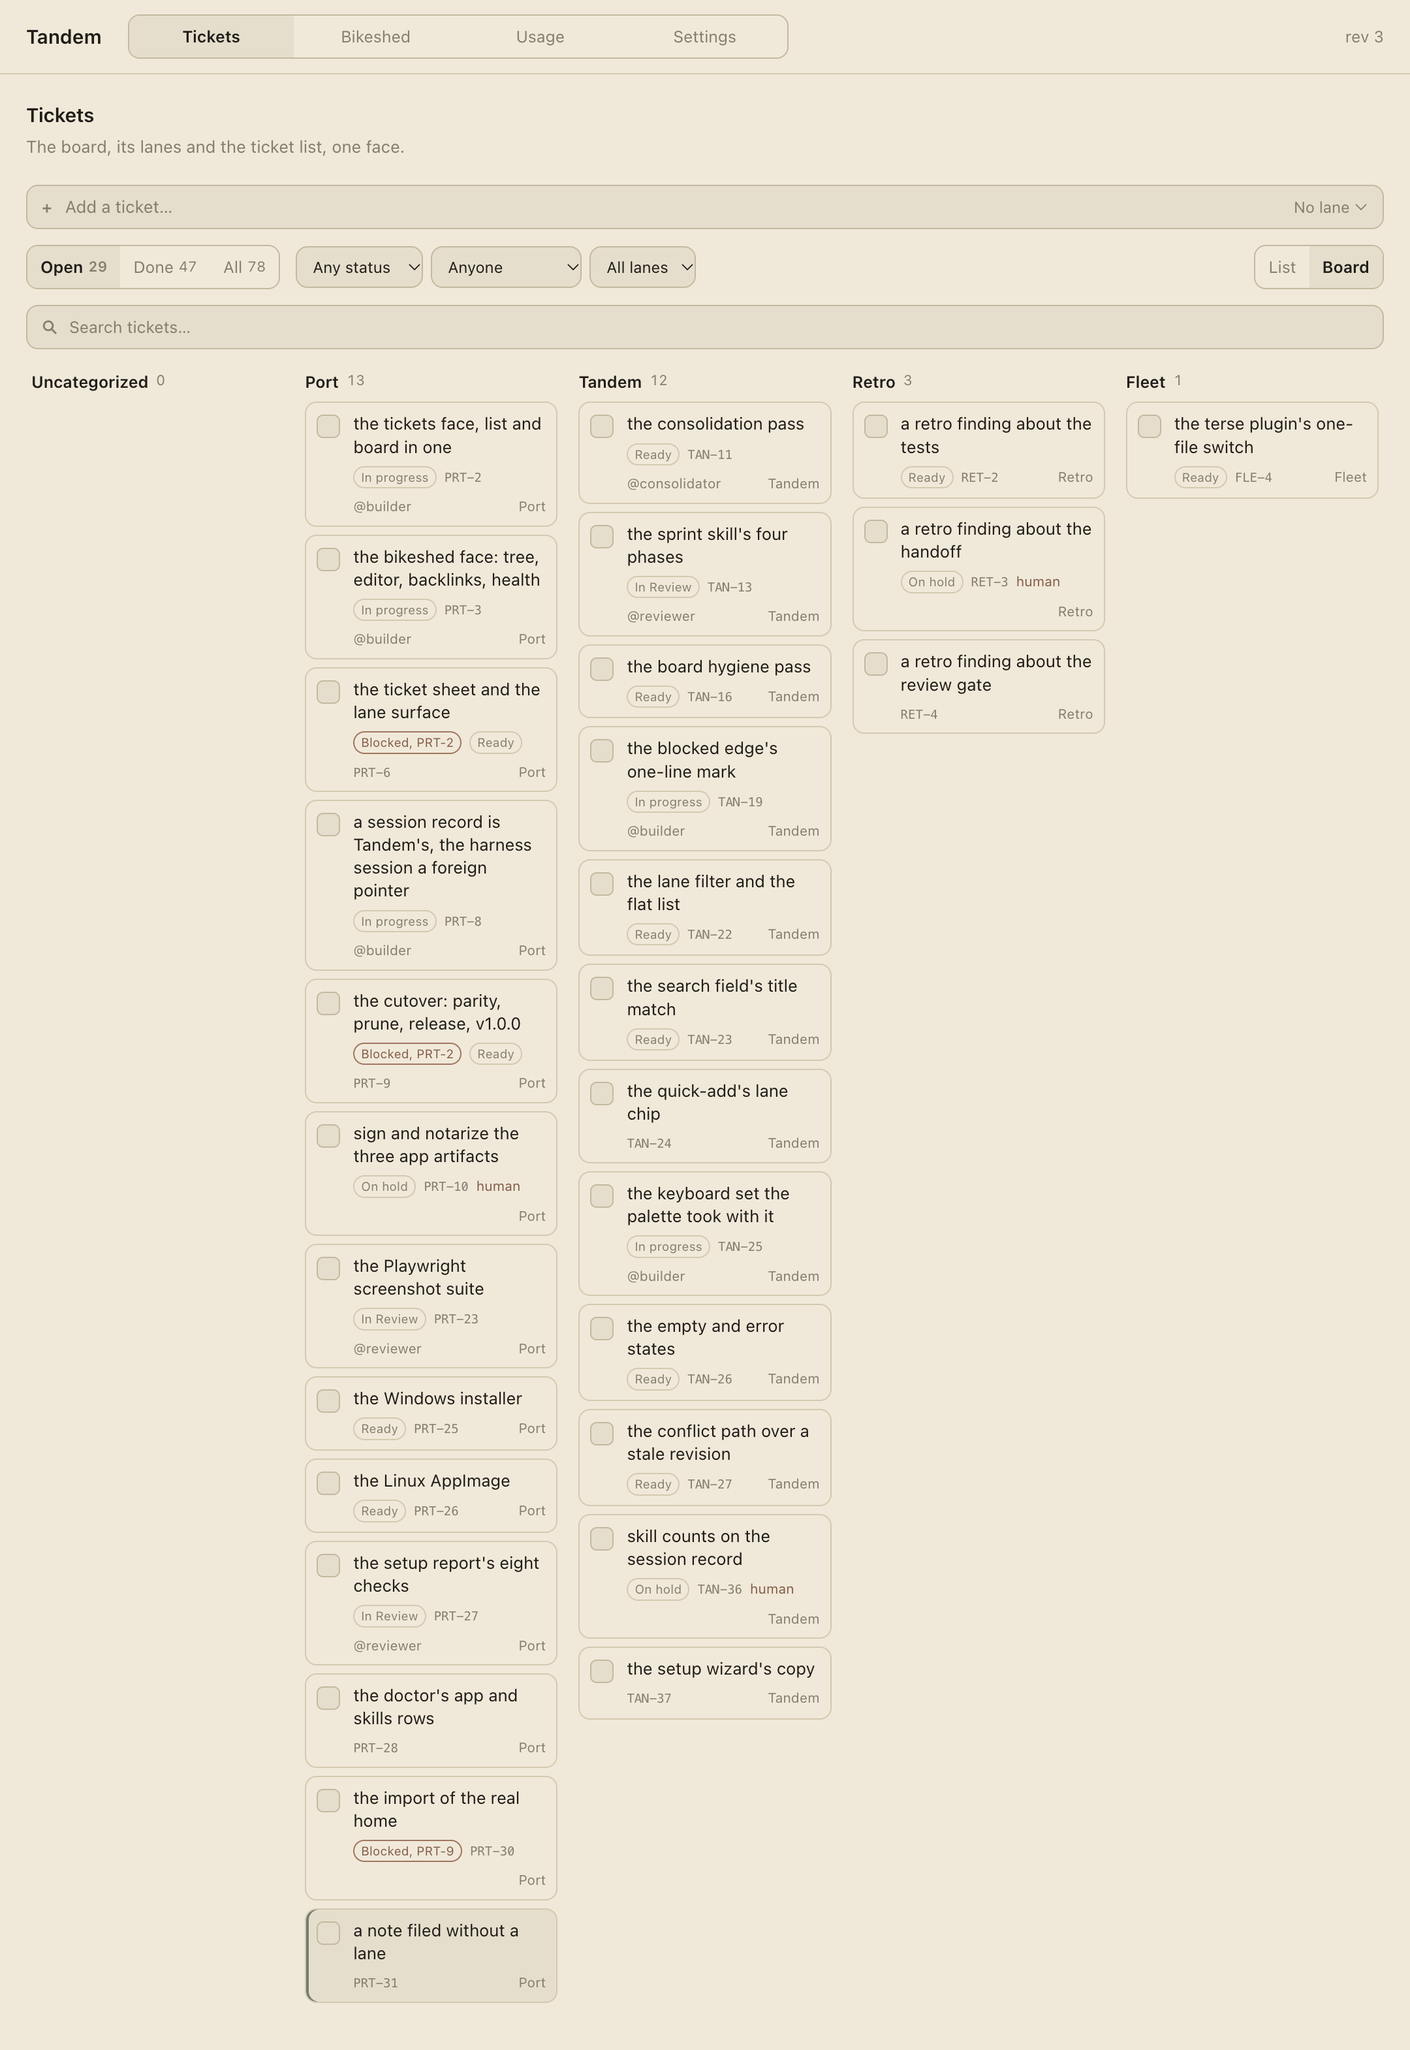
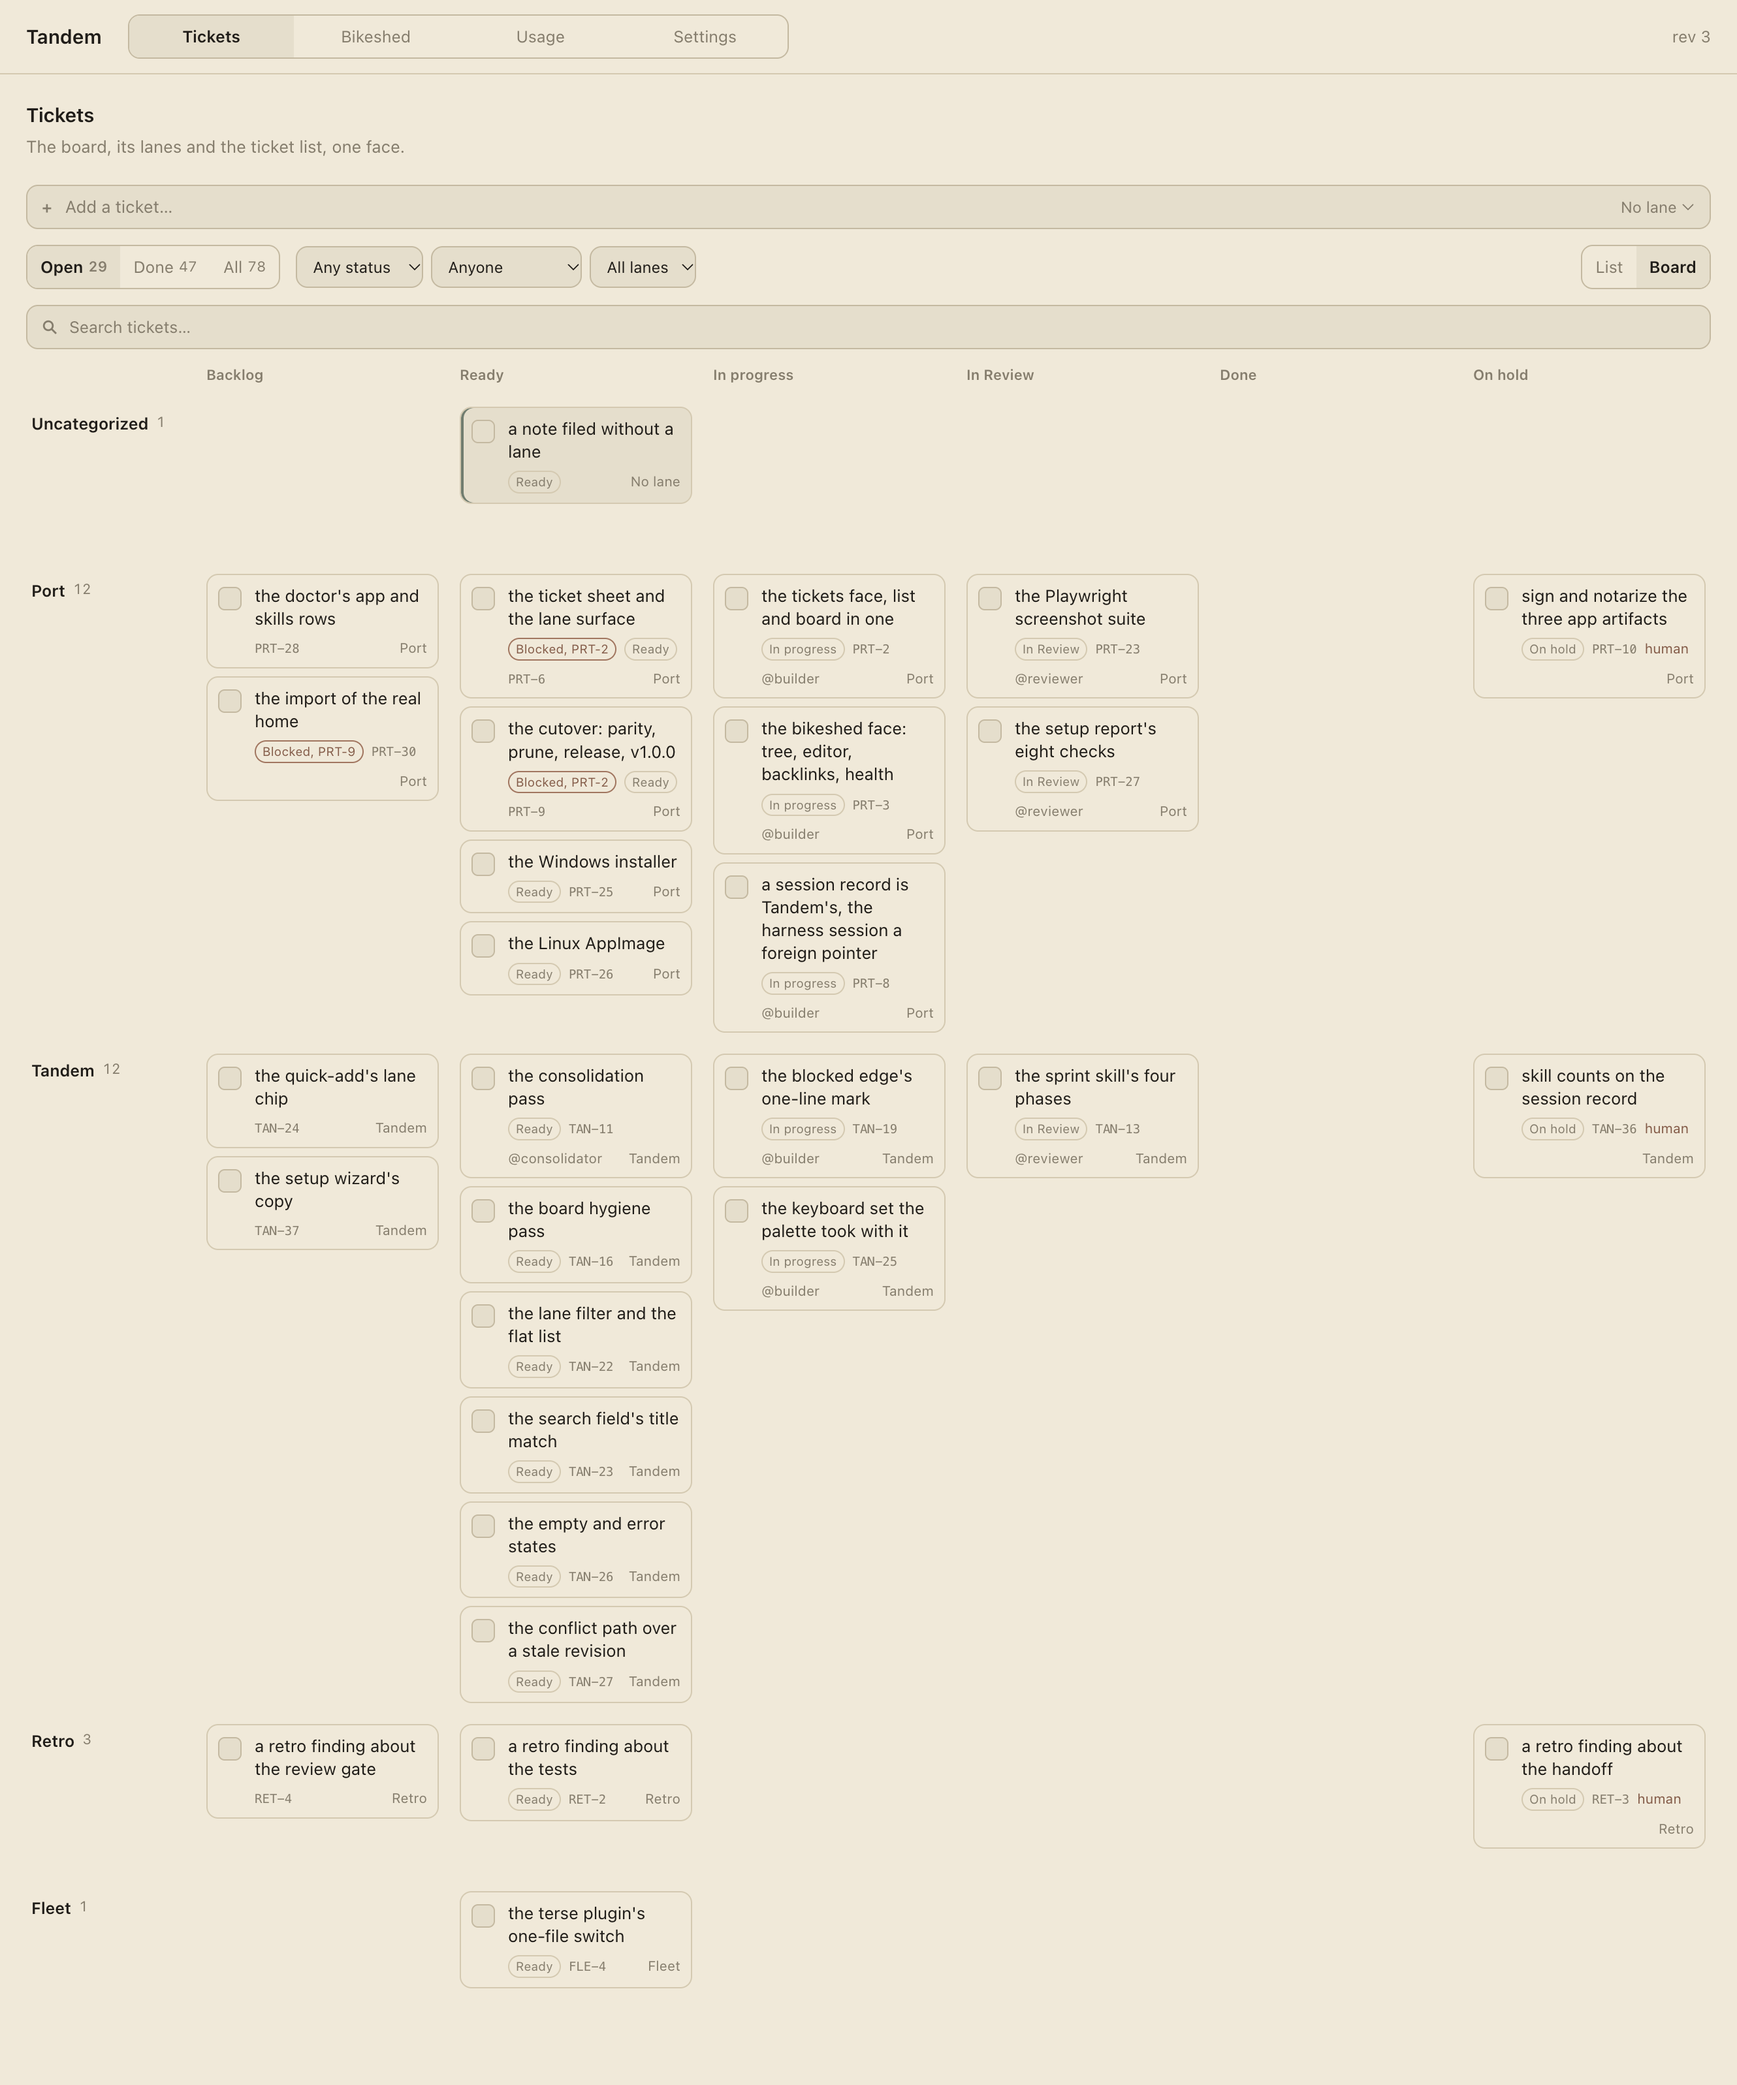
TAND-5: the Tickets pictures show the lanes-as-rows board they describe
TAN-246 flipped the board to lanes as rows and the six statuses as columns,
and TAND-4 added the sheet's focus-ring check to the same spec. The committed
`tickets-board.png` and `tickets-keyboard.png` were the column-per-lane layout,
and their rows in `docs/screenshots/README.md` said so.

- regenerate both pictures with the catalogue's Board command
- the board needs 1288 px for its lane title and six status columns, so the
  capture width goes from 1080 to 1330; at 1080 the On hold column sat past
  the right edge and the picture held five columns of six
- assert the last status column is in the viewport of the frame just shot, so a
  clipped board is a red run and not a half picture
- reword the two rows and the template's board-width sentence for the new grid
- pin the committed catalogue to what the template and the manifest render, so
  a reworded row cannot go stale without a red test

The list picture is unchanged: the list layout did not move, and the run wrote
the same pixels.

diff --git a/app/tests/shots/tickets.shots.ts b/app/tests/shots/tickets.shots.ts
@@ -122,7 +122,13 @@ test('the tickets face shows one board two ways: the list and the board over one
 
   // The pictures are the Open board, the face's default.
   await window.getByRole('tab', { name: /^Open/ }).click()
-  await capture(app, window, scene('tickets-board'), 1080)
+  // The grid needs 1288 px for its lane title and six status columns, and the
+  // shell spends a gutter either side of it: a 1080 window scrolls On hold off
+  // the right edge, and the picture would be half a board.
+  await capture(app, window, scene('tickets-board'), 1330)
+  // The frame just shot holds the whole board: a column past the edge is a
+  // column the photograph never has.
+  await expect(window.locator('.board__status').last()).toBeInViewport()
 
   await window.getByRole('tab', { name: 'List' }).click()
   await expect(window.locator('.list')).toBeVisible()
@@ -233,7 +239,7 @@ test('the keyboard set reaches the fields and moves a ticket, and a second write
     ),
   ).toBeVisible()
 
-  await capture(app, window, scene('tickets-keyboard'), 1080)
+  await capture(app, window, scene('tickets-keyboard'), 1330)
 
   // A second writer, the CLI in a terminal: the face updates with no reload.
   const title = 'Written from the CLI while the face was open'

diff --git a/app/shots/scenes.ts b/app/shots/scenes.ts
@@ -51,13 +51,13 @@ export const SCENES: readonly Scene[] = [
     id: 'tickets-board',
     file: 'tickets-board.png',
     description:
-      'the same face on the same 78-ticket board home in its board layout: one column per lane with the default area named, the same rows set on cards, each with its own count and drop target',
+      'the same face on the same 78-ticket board home in its board layout: the lanes as rows, each named with its count and holding one cell per status, the six status columns with On hold parked last, and the same rows set on cards in the cell of their lane and status',
   },
   {
     id: 'tickets-keyboard',
     file: 'tickets-keyboard.png',
     description:
-      'the keyboard-only pass over the 78-ticket board home: a row selected with the arrows, the quick-add reached with the platform modifier and N, the search with the platform modifier and F, and a ticket moved a lane with Option and the arrows',
+      'the keyboard-only pass over the 78-ticket board home: a row selected with the arrows, the quick-add reached with the platform modifier and N, the search with the platform modifier and F, and a ticket moved one status over, inside its own lane, with Option and the arrows',
   },
 ]
 

diff --git a/app/tests/shots.catalogue.test.ts b/app/tests/shots.catalogue.test.ts
@@ -11,6 +11,7 @@ import {
   templatePath,
   writeCatalogue,
 } from '../shots/catalogue'
+import { REPO_ROOT } from '../shots/roots'
 import { SCENES, type Scene } from '../shots/scenes'
 
 const scenes: Scene[] = [
@@ -65,6 +66,17 @@ describe('the screenshot catalogue', () => {
     const written = readFileSync(cataloguePath(root), 'utf8')
     expect(written).toContain('| `first.png` | the first scene |')
     expect(written).toContain('| `second.png` | the second scene |')
+  })
+
+  it('keeps the committed catalogue the one the template and the manifest render', () => {
+    // The run writes the table from `scenes.ts`, so a reworded scene row is stale
+    // until the next run: a row that describes a layout the pictures no longer
+    // show is the drift this check exists to stop.
+    const root = REPO_ROOT
+
+    expect(readFileSync(cataloguePath(root), 'utf8')).toBe(
+      renderCatalogue(readFileSync(templatePath(root), 'utf8'), SCENES),
+    )
   })
 
   it('ships one scene per file, and every file a picture', () => {

diff --git a/docs/screenshots/README.md b/docs/screenshots/README.md
@@ -42,12 +42,12 @@ size follows the display's scale factor.
 
 A face taller than the window is laid out at its own height (the scroll
 constraint lifted, the width kept) and shot whole, so a picture of a table is
-the whole table; a board is laid out at the width its lanes need, so the picture
-is the whole board rather than a column and a half of it. The scratch home is
-seeded again before every test, so a spec that writes (a drag, a save, the CLI
-as a second writer) cannot change the next spec's picture or its assertions. A
-failing spec fails the run, and the catalogue is rewritten only when every
-scene's picture exists, so a picture and its row cannot drift.
+the whole table; a board is laid out at the width its six status columns need,
+so the picture is the whole board rather than a column and a half of it. The
+scratch home is seeded again before every test, so a spec that writes (a drag, a
+save, the CLI as a second writer) cannot change the next spec's picture or its
+assertions. A failing spec fails the run, and the catalogue is rewritten only
+when every scene's picture exists, so a picture and its row cannot drift.
 
 CI runs the same command on the Linux runner under a virtual display
 (`.github/workflows/app.yml`), so a deliberately broken selector is a red job
@@ -66,5 +66,5 @@ DOM, the same row ids and the same counts on unstyled text.
 | `bikeshed-face.png` | the **Bikeshed** face over the fixture home: the scaffold tree with its reveal control, the committed CodeMirror bundle editing the fixture project note in its own frame, the Backlinks dock naming the Index note, the Health panel reporting the daily note as an orphan, and a draft a killed save left named as a recovery |
 | `settings-face.png` | the **Settings** face over the fixture home: the home, the bikeshed, the three agent hosts, the theme rule, the bundled and installed versions, and the doctor's checks each named with its state and detail |
 | `tickets-list.png` | the **Tickets** face in its list layout over the port's 78-ticket board home (`Fixtures/port/Board`): the quick-add, the Open/Done/All scopes with their counts, the status, assignee and lane filters, the search, and the lane-grouped rows with each ticket's ref, title, status, assignee, lane and blocked mark |
-| `tickets-board.png` | the same face on the same 78-ticket board home in its board layout: one column per lane with the default area named, the same rows set on cards, each with its own count and drop target |
-| `tickets-keyboard.png` | the keyboard-only pass over the 78-ticket board home: a row selected with the arrows, the quick-add reached with the platform modifier and N, the search with the platform modifier and F, and a ticket moved a lane with Option and the arrows |
+| `tickets-board.png` | the same face on the same 78-ticket board home in its board layout: the lanes as rows, each named with its count and holding one cell per status, the six status columns with On hold parked last, and the same rows set on cards in the cell of their lane and status |
+| `tickets-keyboard.png` | the keyboard-only pass over the 78-ticket board home: a row selected with the arrows, the quick-add reached with the platform modifier and N, the search with the platform modifier and F, and a ticket moved one status over, inside its own lane, with Option and the arrows |

diff --git a/docs/screenshots/README.template.md b/docs/screenshots/README.template.md
@@ -42,12 +42,12 @@ size follows the display's scale factor.
 
 A face taller than the window is laid out at its own height (the scroll
 constraint lifted, the width kept) and shot whole, so a picture of a table is
-the whole table; a board is laid out at the width its lanes need, so the picture
-is the whole board rather than a column and a half of it. The scratch home is
-seeded again before every test, so a spec that writes (a drag, a save, the CLI
-as a second writer) cannot change the next spec's picture or its assertions. A
-failing spec fails the run, and the catalogue is rewritten only when every
-scene's picture exists, so a picture and its row cannot drift.
+the whole table; a board is laid out at the width its six status columns need,
+so the picture is the whole board rather than a column and a half of it. The
+scratch home is seeded again before every test, so a spec that writes (a drag, a
+save, the CLI as a second writer) cannot change the next spec's picture or its
+assertions. A failing spec fails the run, and the catalogue is rewritten only
+when every scene's picture exists, so a picture and its row cannot drift.
 
 CI runs the same command on the Linux runner under a virtual display
 (`.github/workflows/app.yml`), so a deliberately broken selector is a red job
